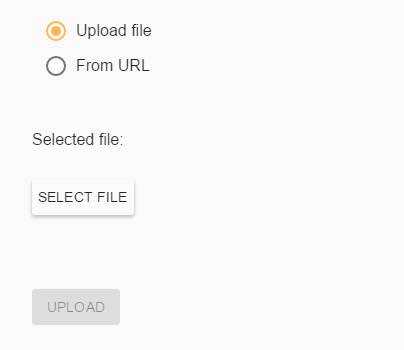
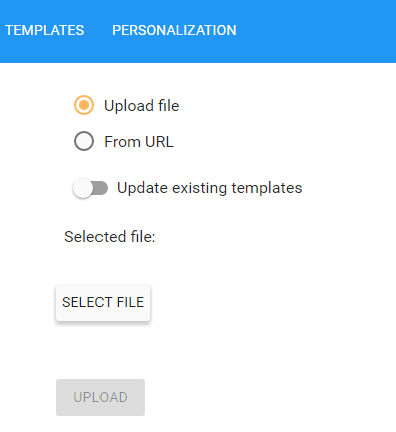
Update template documentation

diff --git a/templates/index.html b/templates/index.html
@@ -138,8 +138,8 @@ materialicon: extension
             <div class="col s12 m5 l6">
                 <p class="flow-text">
                 Pipelines using templates can be exported to and imported from other LP-ETL instances.
-                Pipeline export file (or the pipeline export obtained by dereferencing the pipeline IRI) contains all templates used in that pipeline.
-                There is a switch in the import pipeline dialog, which determines whether templates already present in the pipeline being imported should overwrite or reuse the templates existing in the LP-ETL instance.
+                Pipeline export files (or the pipeline exports obtained by dereferencing the pipeline IRI) contain all templates used in that pipeline.
+                The &quot;Update existing templates&quot; switch determines whether templates already present in the pipeline being imported should overwrite or reuse the templates existing in the LP-ETL instance.
                 </p>
                 <p class="flow-text">
                 When you have, e.g. a testing and a production instance, and you update your templates in the testing instance and want to update the production instance by importing pipeline from the testing envrionment, you probably want to rewrite the pre-existing templates.
